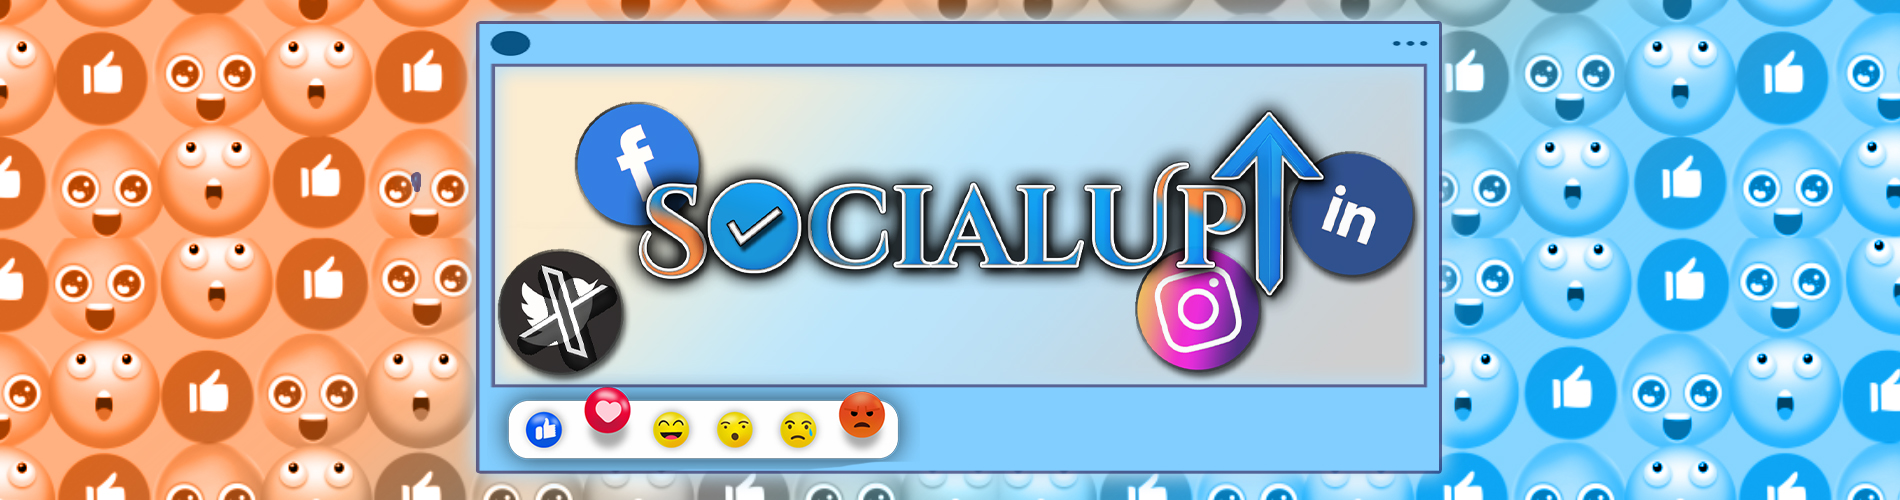
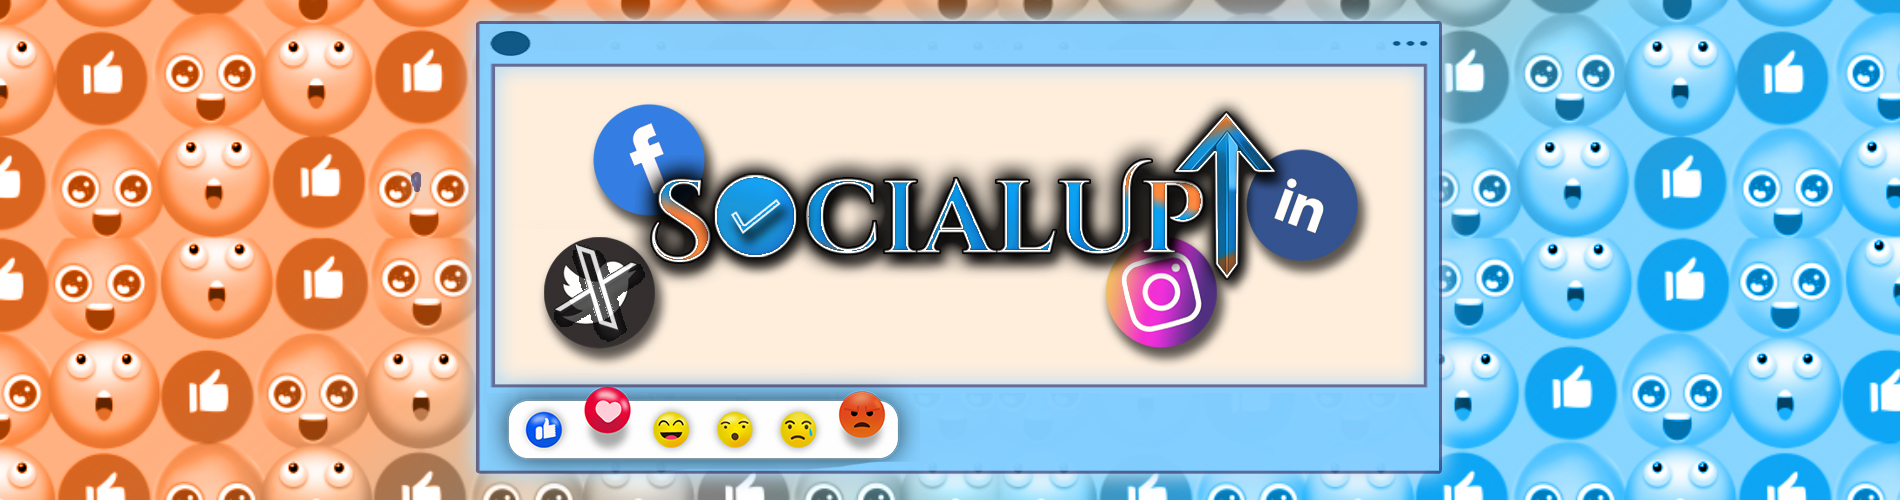
front end formatting and update to ReadMe

Changed region(s): [[0.2484, 0.12, 0.7763, 0.78]]

diff --git a/FrontEnd/src/components/home/PostCreator.jsx b/FrontEnd/src/components/home/PostCreator.jsx
@@ -18,9 +18,9 @@ import LayoutRow from './LayoutRow';
 // import helpers
 
 // import icons
-import { FaFacebookF, FaInstagram } from 'react-icons/fa';
-import { FaXTwitter } from 'react-icons/fa6';
-import { FaLinkedinIn } from 'react-icons/fa6';
+import { FaCopy, FaFacebookF, FaInstagram } from 'react-icons/fa';
+import { FaLinkedinIn, FaXTwitter } from 'react-icons/fa6';
+import { IoReload } from 'react-icons/io5';
 
 //function to handle form submission
 
@@ -398,7 +398,7 @@ Post: (post text for selected platform here)
             >
               <div className="post_text">
                 <textarea
-                  placeholder="Your Post Here"
+                  placeholder="What do you want to say?"
                   onChange={handleContent}
                 />
                 <button className="btn btn__add" onClick={addCustomContent}>
@@ -419,7 +419,7 @@ Post: (post text for selected platform here)
           <div className="post__container">
             {!loading ? (
               <>
-                <div className="social__row">
+                <div className="social__nameplate">
                   <img src={userIcon} alt="User Icon" />
                   <div className="name__date">
                     <h3>Social Up User</h3>
@@ -432,13 +432,17 @@ Post: (post text for selected platform here)
             )}
             <textarea defaultValue={resultsData}></textarea>
             {!loading ? (
-              <div className="split">
-                <button className="btn__new btn" onClick={copyText}>
-                  Copy Text
+              <div className="split2">
+                <button className="btn__icon btn" onClick={copyText}>
+                  <div className="icon">
+                    <FaCopy />{' '}
+                  </div>
                 </button>
 
-                <button className="btn btn__new" onClick={loadPage}>
-                  Start Over?
+                <button className="btn__icon btn" onClick={loadPage}>
+                  <div className="icon">
+                    <IoReload />{' '}
+                  </div>
                 </button>
               </div>
             ) : null}

diff --git a/FrontEnd/src/assets/css/postGen.css b/FrontEnd/src/assets/css/postGen.css
@@ -31,7 +31,8 @@
   margin: 20px auto;
 }
 
-.post-container {
+.post-container,
+.post__container {
   padding: 10px 0;
   margin: auto;
   display: flex;
@@ -72,22 +73,25 @@
 }
 
 .post__container textarea {
+  height: fit-content;
+  max-height: 180px;
   border-radius: 20px !important;
+  border: 3px dashed var(--primary-color);
+  background-color: rgb(255, 255, 255) !important;
 }
-
-.social__row {
+.social__nameplate {
   display: flex;
   flex-direction: row;
-  justify-content: center;
+  justify-content: baseline;
   align-items: center;
   color: black;
   width: 100%;
   padding: 5px auto;
 }
 
-.social__row img {
-  width: 150px;
-  height: 150px;
+.social__nameplate img {
+  width: 100px;
+  height: 100px;
   margin: auto;
   border-radius: 50%;
   padding: 0;
@@ -104,18 +108,48 @@
 
 .name__date h3 {
   font-family: 'Cinzel Decorative', cursive;
-  font-size: 24px;
+  font-size: 20px;
   margin: 0;
 }
 
 .name__date p {
   font-family: 'Cinzel' serif;
   font-size: 16px;
+  color: gray;
   margin: 0;
 }
 
 .post_text {
   margin: 20px auto;
+}
+
+.icon {
+  font-size: 25px;
+  display: flex;
+  justify-content: center;
+  align-items: center;
+}
+
+.btn__icon {
+  border-radius: 50%;
+  height: 50px;
+  width: 50px;
+
+  text-align: center;
+  justify-content: center;
+  display: flex;
+  flex-direction: column;
+  align-items: center;
+}
+
+.split2 {
+  display: flex;
+  flex-direction: row;
+  justify-content: space-evenly;
+  align-items: center;
+  width: 100%;
+  font-size: 16px;
+  margin: 10px auto;
 }
 
 .post-container textarea::placeholder {
@@ -131,6 +165,12 @@
   font-family: 'Cinzel', serif;
   border: 1px solid var(--primary-color);
   text-align: center;
+}
+
+.post-container input[type='checkbox'] {
+  scale: 1.5;
+  margin: 10px;
+  margin-right: auto;
 }
 
 .sections {
@@ -162,6 +202,12 @@
   margin: auto;
   font-weight: 300;
   color: black !important;
+  margin-left: -20px !important;
+}
+
+.row_2 label,
+.row_4 label {
+  margin-left: -20px !important;
 }
 
 .row_4 {

diff --git a/FrontEnd/src/App.css b/FrontEnd/src/App.css
@@ -13,8 +13,8 @@
   --btn-shadow: 0 0 5px 3px rgba(109, 107, 107, 0.473);
   --primary-gradient: linear-gradient(
     90deg,
-    rgb(231, 213, 181) 0%,
-    #5cd7f2 100%
+    rgb(236, 225, 207) 0%,
+    #7ad8ed 100%
   );
   font-family: 'Cinzel', serif;
 }
@@ -44,7 +44,7 @@ main {
   align-items: center;
   justify-content: center;
   font-size: calc(10px + 2vmin);
-  background: url(./assets/images/socialHeader2.jpg) no-repeat center
+  background: url(./assets/images/socialHeader3.jpg) no-repeat center
     center/cover;
   margin-top: 50px;
   position: relative;

diff --git a/FrontEnd/src/assets/css/about.css b/FrontEnd/src/assets/css/about.css
@@ -66,7 +66,7 @@
 }
 
 .about2 h2 {
-  color: white;
+  color: rgb(65, 63, 63);
   font-family: 'Cinzel Decorative', cursive;
   font-size: calc(1rem + 2vmin);
   margin: auto;

diff --git a/README.md b/README.md
@@ -2,7 +2,7 @@
 
 ### _Upscale your Social Media content with AI!_
 
-![logo](./FrontEnd/src/assets/images/socialLogoRM.jpg)
+![logo](./FrontEnd/src/assets/images/readme-pics/socialLogoRM.jpg)
 
 ## Description
 
@@ -40,7 +40,7 @@ Start by:
 
 Your content will be upscaled using Gemini's API and then returned below for you to copy and paste as needed.
 
-Post not quite right? ☹ Just click Start Over!
+Post not quite right? ☹ Just click Reload!
 
 > Being a Social Media Icon has never been easier, with SocialUp↑
 
@@ -68,7 +68,27 @@ Post not quite right? ☹ Just click Start Over!
 
 ## Screenshot
 
-![screenshot](./FrontEnd/src/assets/images/placeholder.png)
+![screenshot](./FrontEnd/src/assets/images/readme-pics/socialUpScreenshot1.png)
+
+<details closed>
+<summary>See More Screenshots Here!</summary>
+<br>
+
+![screenshot](./FrontEnd/src/assets/images/readme-pics/socialUpScreenshot2.png)
+
+![screenshot](./FrontEnd/src/assets/images/readme-pics/socialUpScreenshot3.png)
+
+![screenshot](./FrontEnd/src/assets/images/readme-pics/socialUpScreenshot4.png)
+
+![screenshot](./FrontEnd/src/assets/images/readme-pics/socialUpScreenshot5.png)
+
+![screenshot](./FrontEnd/src/assets/images/readme-pics/socialUpScreenshot6.png)
+
+![screenshot](./FrontEnd/src/assets/images/readme-pics/socialUpScreenshot7.png)
+
+![screenshot](./FrontEnd/src/assets/images/readme-pics/socialUpScreenshot8.png)
+
+</details>
 
 <a id="links"></a>
 
@@ -97,7 +117,5 @@ ryan.fann@gmail.com
 #### GitHub Username:
 
 [8BitGinger](https://github.com/8BitGinger)
-
-![screenshot](./FrontEnd/src/assets/images/ai-readme.png)
 
 </div>
